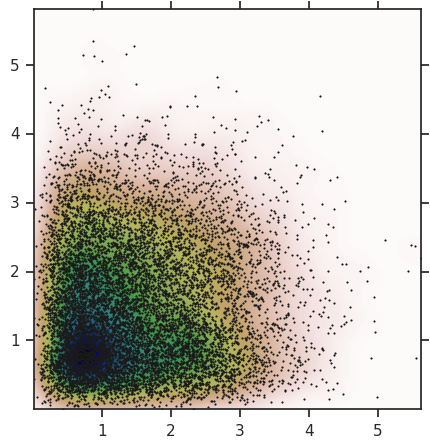
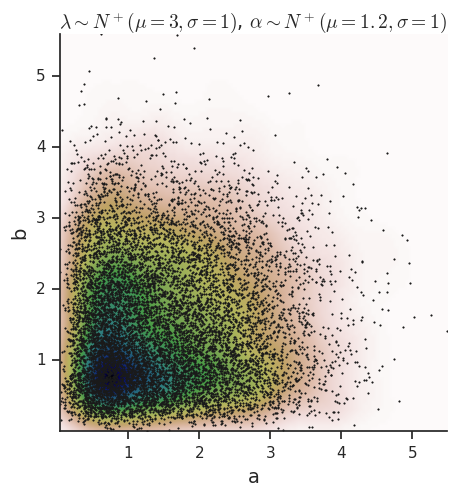
Fixed some bugs and added ConfInspector.to_sysrepr.

diff --git a/cap_finder.py b/cap_finder.py
@@ -1,4 +1,4 @@
-import math, scipy, cvxpy, pprint, itertools
+import math, scipy, cvxpy, pprint, itertools, string
 import numpy as np
 from scipy import spatial
 from fillplots import plot_regions
@@ -32,10 +32,23 @@ class ConfInspector(object):
     self.n = G.shape[1]
     
     self.sys__repgroup_l_l = self.get_sys__repgroup_l_l()
+    blog(ConfInspector=self, sys__repgroup_l_l=self.sys__repgroup_l_l)
     self.A, self.b = self.cap_hyperplane()
   
   def __repr__(self):
     return 'ConfInspector[k= {}, n= {}, G=\n{}]'.format(self.k, self.n, self.G)
+  
+  def to_sysrepr(self):
+    sym_l = string.ascii_lowercase[:self.k]
+    node_l = []
+    for c in range(self.n):
+      l = []
+      for r in range(self.k):
+        if G[r, c] != 0:
+          num = int(G[r, c])
+          l.append('{}{}'.format(num, sym_l[r] ) if num != 1 else '{}'.format(sym_l[r] ) )
+      node_l.append('+'.join(l) )
+    return str(node_l)
   
   def get_sys__repgroup_l_l(self):
     def does_right_contain_left(t1, t2):
@@ -61,9 +74,8 @@ class ConfInspector(object):
           l = [self.G[:, i] for i in subset]
           A = np.array(l).reshape((self.k, len(l) ))
           # print("\n")
-          # blog(A=A, y=y)
           x, residuals, _, _ = np.linalg.lstsq(A, y)
-          # blog(x=x, residuals=residuals)
+          # log(INFO, "", A=A, y=y, x=x, residuals=residuals)
           if np.sum(residuals) < 0.0001:
             repgroup_l.append(subset)
       sys__repgroup_l_l[s] = repgroup_l
@@ -90,7 +102,7 @@ class ConfInspector(object):
         if i in x[j]:
           M[i, j] = 1
     
-    # blog(r=r, C=C, M=M)
+    # log(INFO, "", r=r, C=C, M=M)
     return r, M, C
   
   def cap_boundary_point_l(self):
@@ -105,7 +117,7 @@ class ConfInspector(object):
       length = math.sqrt(sum([e**2 for e in l] ) )
       w = np.array(l).reshape((1, self.k))/length
       
-      # blog(w=w)
+      # log(INFO, "", w=w)
       w_ = np.dot(w, C) # w*C
       # blog(w_=w_)
       obj = cvxpy.Maximize(w_*x)
@@ -113,11 +125,17 @@ class ConfInspector(object):
       constraints = [M*x == 1, x >= 0] # [M*x <= 1, x >= 0]
       prob = cvxpy.Problem(obj, constraints)
       prob.solve()
+      # log(INFO, "optimization problem;", prob=prob, status=prob.status, opt_val=prob.value)
       y = np.dot(C, x.value)
-      # blog(prob=prob, status=prob.status, opt_val=prob.value, y=y)
       # p_l.append(tuple(map(tuple, y) ) )
       # y = (e[0] for e in y)
-      p_l.append([e[0] for e in tuple(y) ] )
+      p = [e[0] for e in tuple(y) ]
+      p_l.append(p)
+      ## Add projections on the axes as well to make sure point_l form a convex hull
+      for i in range(self.k):
+        p_ = list(p)
+        p_[i] = 0
+        p_l.append(p_)
       
       counter += 1
     return p_l
@@ -125,6 +143,8 @@ class ConfInspector(object):
   def cap_hyperplane(self):
     point_l = self.cap_boundary_point_l()
     point_l.append((0, 0))
+    # log(INFO, "", point_l=point_l)
+    # plot_points(point_l, fname='points')
     points_inrows = np.array(point_l).reshape((len(point_l), self.k))
     hull = scipy.spatial.ConvexHull(points_inrows)
     
@@ -185,25 +205,24 @@ class ConfInspector(object):
     
     result, abserr = scipy.integrate.nquad(func, ranges)
     # blog(result=result, abserr=abserr)
-    return result
+    return round(result, 2)
   
   def plot_servcap_2d(self):
-    '''
+    # '''
     point_l = self.cap_boundary_point_l()
     point_l.append((0, 0))
-    
     points_inrows = np.array(point_l).reshape((len(point_l), self.k))
     hull = scipy.spatial.ConvexHull(points_inrows)
     for simplex in hull.simplices:
       # print("x_l= {}, y_l= {}".format(points_inrows[simplex, 0], points_inrows[simplex, 1] ) )
-      plot.plot(points_inrows[simplex, 0], points_inrows[simplex, 1], c=NICE_BLUE, marker='o', ls='-', lw=3)
+      plot.plot(points_inrows[simplex, 0], points_inrows[simplex, 1], c=NICE_ORANGE, marker='o', ls='-', lw=3)
     # plot.plot(points_inrows[hull.vertices, 0], points_inrows[hull.vertices, 1], 'r--', lw=2)
     # plot.plot(points_inrows[hull.vertices[0], 0], points_inrows[hull.vertices[0], 1], 'ro')
+    # plot.fill(points_inrows[simplex, 0], points_inrows[simplex, 1], c=NICE_ORANGE, alpha=0.5)
+    plot.fill(points_inrows[hull.vertices, 0], points_inrows[hull.vertices, 1], c=NICE_ORANGE, alpha=0.3)
+    # '''
     
-    plot.fill(points_inrows[simplex, 0], points_inrows[simplex, 1], c=NICE_BLUE, alpha=0.5)
     '''
-    
-    # plot_regions([[(lambda x: (1.0 - x ** 2) ** 0.5, True), (lambda x: x,) ] ], xlim=(0, 1), ylim=(0, 1) )
     A, b = self.A, self.b
     # blog(A=A, b=b)
     # for i in range(A.shape[0] ):
@@ -217,18 +236,18 @@ class ConfInspector(object):
     # plot.ylim((0, 10))
     
     plot.legend()
-    plot_regions(
-      [[(eq, True) for eq in eq_l] ],
-      xlim=(0, 10), ylim=(0, 10) )
-    
     # plot_regions(
     #   [[(lambda x: 1 - x, True), (lambda x: 2 - 4*x, True) ] ],
     #   xlim=(0, 1), ylim=(0, 1) )
+    plot_regions(
+      [[(eq, True) for eq in eq_l] ],
+      xlim=(0, 10), ylim=(0, 10) )
+    '''
     
     # prettify(plot.gca() )
-    plot.title('n= {}, k= {}'.format(self.n, self.k) )
-    plot.xlabel('a', fontsize=14)
-    plot.ylabel('b', fontsize=14)
+    # plot.title('n= {}, k= {}'.format(self.n, self.k) )
+    plot.xlabel(r'$\lambda_a$', fontsize=16)
+    plot.ylabel(r'$\lambda_b$', fontsize=16)
     fig = plot.gcf()
     fig.set_size_inches(5, 5)
     plot.savefig('plot_servcap_2d_n{}_k{}.png'.format(self.n, self.k), bbox_inches='tight')
@@ -288,7 +307,8 @@ class ConfInspector(object):
     log(INFO, "done.")
   
   def plot_all_2d(self, popmodel):
-    fig, axs = plot.subplots(1, 2)
+    fig, axs = plot.subplots(1, 2, sharey=True)
+    fontsize = 18
     
     ### Service cap and Popularity heatmap
     ax = axs[0]
@@ -301,7 +321,7 @@ class ConfInspector(object):
     # label='Capacity boundary'
     for simplex in hull.simplices:
       plot.plot(points_inrows[simplex, 0], points_inrows[simplex, 1], c=NICE_ORANGE, marker='o', ls='-', lw=3)
-    plot.fill(points_inrows[simplex, 0], points_inrows[simplex, 1], c=NICE_BLUE, alpha=0.5)
+    plot.fill(points_inrows[simplex, 0], points_inrows[simplex, 1], c=NICE_ORANGE, alpha=0.5)
     # Popularity heatmap
     [xmax, ymax] = popmodel.max_l
     X, Y = np.mgrid[0:xmax:100j, 0:ymax:100j]
@@ -313,8 +333,12 @@ class ConfInspector(object):
     # plot.legend()
     plot.xlim([0, xmax] )
     plot.ylim([0, ymax] )
-    plot.xlabel(r'$a$', fontsize=14)
-    plot.ylabel(r'$b$', fontsize=14)
+    plot.xlabel('a', fontsize=fontsize)
+    plot.ylabel('b', fontsize=fontsize)
+    
+    covered_mass = self.integrate_overcaphyperlane(popmodel.joint_pdf)
+    plot.text(0.7, 0.85, 'Covered mass= {}'.format(covered_mass),
+      horizontalalignment='center', verticalalignment='center', transform = ax.transAxes)
     
     ### Cost map
     ax = axs[1]
@@ -329,21 +353,28 @@ class ConfInspector(object):
     plot.gcf().colorbar(c, ax=ax)
     plot.xlim([0, xmax] )
     plot.ylim([0, ymax] )
-    plot.xlabel(r'$a$', fontsize=14)
-    plot.ylabel(r'$b$', fontsize=14)
+    plot.xlabel('a', fontsize=fontsize)
+    plot.ylabel('b', fontsize=fontsize)
     
-    plot.suptitle(r'$n= {}$, $k= {}$'.format(self.n, self.k), fontsize=14)
+    EC = self.moment_cost(popmodel.joint_pdf, i=1)
+    plot.text(0.7, 0.85, 'E[Cost]= {}'.format(EC),
+      horizontalalignment='center', verticalalignment='center', transform = ax.transAxes)
+    
+    plot.suptitle('n= {}, k= {}'.format(self.n, self.k), fontsize=fontsize)
     fig.set_size_inches(2*5, 5)
     plot.savefig('plot_all_2d_n{}_k{}.png'.format(self.n, self.k), bbox_inches='tight')
     fig.clear()
     log(INFO, "done;", n=self.n, k=self.k)
 
 if __name__ == "__main__":
-  G = conf_mds_matrix(6, k=2)
+  # G = mds_conf_matrix(5, k=2)
+  G = custom_conf_matrix(4, k=2)
   cf = ConfInspector(G)
+  print("cf.to_sysrepr= {}".format(cf.to_sysrepr() ) )
+  
   # r, M, C = cf.r_M_C()
   # cf.cap_boundary_point_l()
-  # cf.plot_servcap_2d()
+  cf.plot_servcap_2d()
   # cf.cap_hyperplane()
   # cf.integrate_overcaphyperlane(lambda x, y: 1)
   

diff --git a/plot_utils.py b/plot_utils.py
@@ -5,6 +5,8 @@ matplotlib.use('Agg')
 import matplotlib.pyplot as plot
 import itertools
 
+from log_utils import *
+
 NICE_BLUE = '#66b3ff'
 NICE_RED = '#ff9999'
 NICE_GREEN = '#99ff99'
@@ -20,26 +22,18 @@ skinny_marker_l = ['x', '+', '1', '2', '3', '4']
 mew, ms = 1, 2 # 3, 5
 
 def prettify(ax):
+  plot.tick_params(top='off', right='off', which='both')
   ax.patch.set_alpha(0.2)
   ax.spines['right'].set_visible(False)
   ax.spines['top'].set_visible(False)
 
-def plot_hull(x_y_l, fname, title):
-  # ps = np.empty((len(x_y_l), 2))
-  # for i, x_y in enumerate(x_y_l):
-  #   # ps[i, :] = [[p[0], p[1]]]
-  #   ps[i, 0] = x_y[0]
-  #   ps[i, 1] = x_y[1]
+def plot_points(x_y_l, fname):
+  x_l, y_l = [], []
+  for x_y in x_y_l:
+    x_l.append(x_y[0] )
+    y_l.append(x_y[1] )
   
-  # print("ps= {}".format(ps) )
-  # plot.plot(ps[:,0], ps[:,1], 'o')
-  
-  plot.plot(ps[:,0], ps[:,1], 'o')
-  
-  """
-  hull = ConvexHull(ps)
-  for simplex in hull.simplices:
-    plot.plot(ps[simplex, 0], ps[simplex, 1], 'k-')
-  plot.plot(ps[hull.vertices,0], ps[hull.vertices,1], 'r--', lw=2)
-  plot.plot(ps[hull.vertices[0],0], ps[hull.vertices[0],1], 'ro')
-  """
+  plot.plot(x_l, y_l, color=NICE_BLUE, marker='o', ls='None')
+  plot.savefig('{}.png'.format(fname), bbox_inches='tight')
+  plot.gcf().clear()
+  log(INFO, "done.")

diff --git a/popularity.py b/popularity.py
@@ -8,6 +8,7 @@ import pandas as pd
 import scipy, seaborn
 seaborn.set(style='white', color_codes=True)
 
+from plot_utils import *
 from log_utils import *
 from rvs import *
 
@@ -89,6 +90,10 @@ class PopModel_wZipf(object):
     plot.plot(values[0, :], values[1, :], 'k.', markersize=2)
     plot.xlim([xmin, xmax] )
     plot.ylim([ymin, ymax] )
+    plot.xlabel('a', fontsize=14)
+    plot.ylabel('b', fontsize=14)
+    plot.title(r'$\lambda \sim {}$, $\alpha \sim {}$'.format(self.arrate_rv, self.zipf_tailindex_rv), fontsize=14)
+    prettify(plot.gca() )
     fig = plot.gcf()
     fig.set_size_inches(5, 5)
     plot.savefig('plot_kde_2d.png', bbox_inches='tight')

diff --git a/exp.py b/exp.py
@@ -4,7 +4,7 @@ from cap_finder import *
 from popularity import *
 
 if __name__ == "__main__":
-  pm = PopModel_wZipf(k=2, zipf_tailindex_rv=TNormal(1.2, 1), arrate_rv=TNormal(3, 1) )
+  pm = PopModel_wZipf(k=2, zipf_tailindex_rv=TNormal(1.2, 1), arrate_rv=TNormal(1.5, 1) )
   
   # for x in np.linspace(0, 2, 10):
   #   for y in np.linspace(0, 2, 10):
@@ -19,6 +19,6 @@ if __name__ == "__main__":
   
   G = conf_mds_matrix(5, k=2)
   cf = ConfInspector(G)
-  # cf.plot_all_2d(pm)
-  EC = cf.moment_cost(pm.joint_pdf, i=1)
-  blog(EC=EC)
+  cf.plot_all_2d(pm)
+  # EC = cf.moment_cost(pm.joint_pdf, i=1)
+  # blog(EC=EC)

diff --git a/conf_gen.py b/conf_gen.py
@@ -1,6 +1,6 @@
 import numpy as np
 
-def conf_mds_matrix(n, k=2):
+def mds_conf_matrix(n, k=2):
   if k != 2:
     log(ERROR, "Unexpected k;", k=k)
     return None
@@ -14,6 +14,21 @@ def conf_mds_matrix(n, k=2):
       G[0, j] = 0
       G[1, j] = 1
     else:
-      G[0, j] = j-1
-      G[1, j] = 1
+      G[0, j] = 1
+      G[1, j] = j-1
+  return G
+
+def custom_conf_matrix(n, k=2):
+  if n == 4:
+    G = np.array([
+      [1, 0, 1, 0],
+      [0, 1, 0, 1] ])
+  elif n == 3:
+    G = np.array([
+      [1, 0, 1],
+      [0, 1, 1] ])
+  elif n == 2:
+    G = np.array([
+      [1, 0],
+      [0, 1] ])
   return G

diff --git a/rvs.py b/rvs.py
@@ -42,7 +42,7 @@ class TNormal(RV):
   
   def __repr__(self):
     # return 'TNormal[mu= {}, sigma= {}]'.format(self.mu, self.sigma)
-    return r'N(\mu= {}, \sigma= {})'.format(self.mu, self.sigma)
+    return r'N^+(\mu= {}, \sigma= {})'.format(self.mu, self.sigma)
   
   def cdf(self, x):
     return self.dist.cdf(x)
